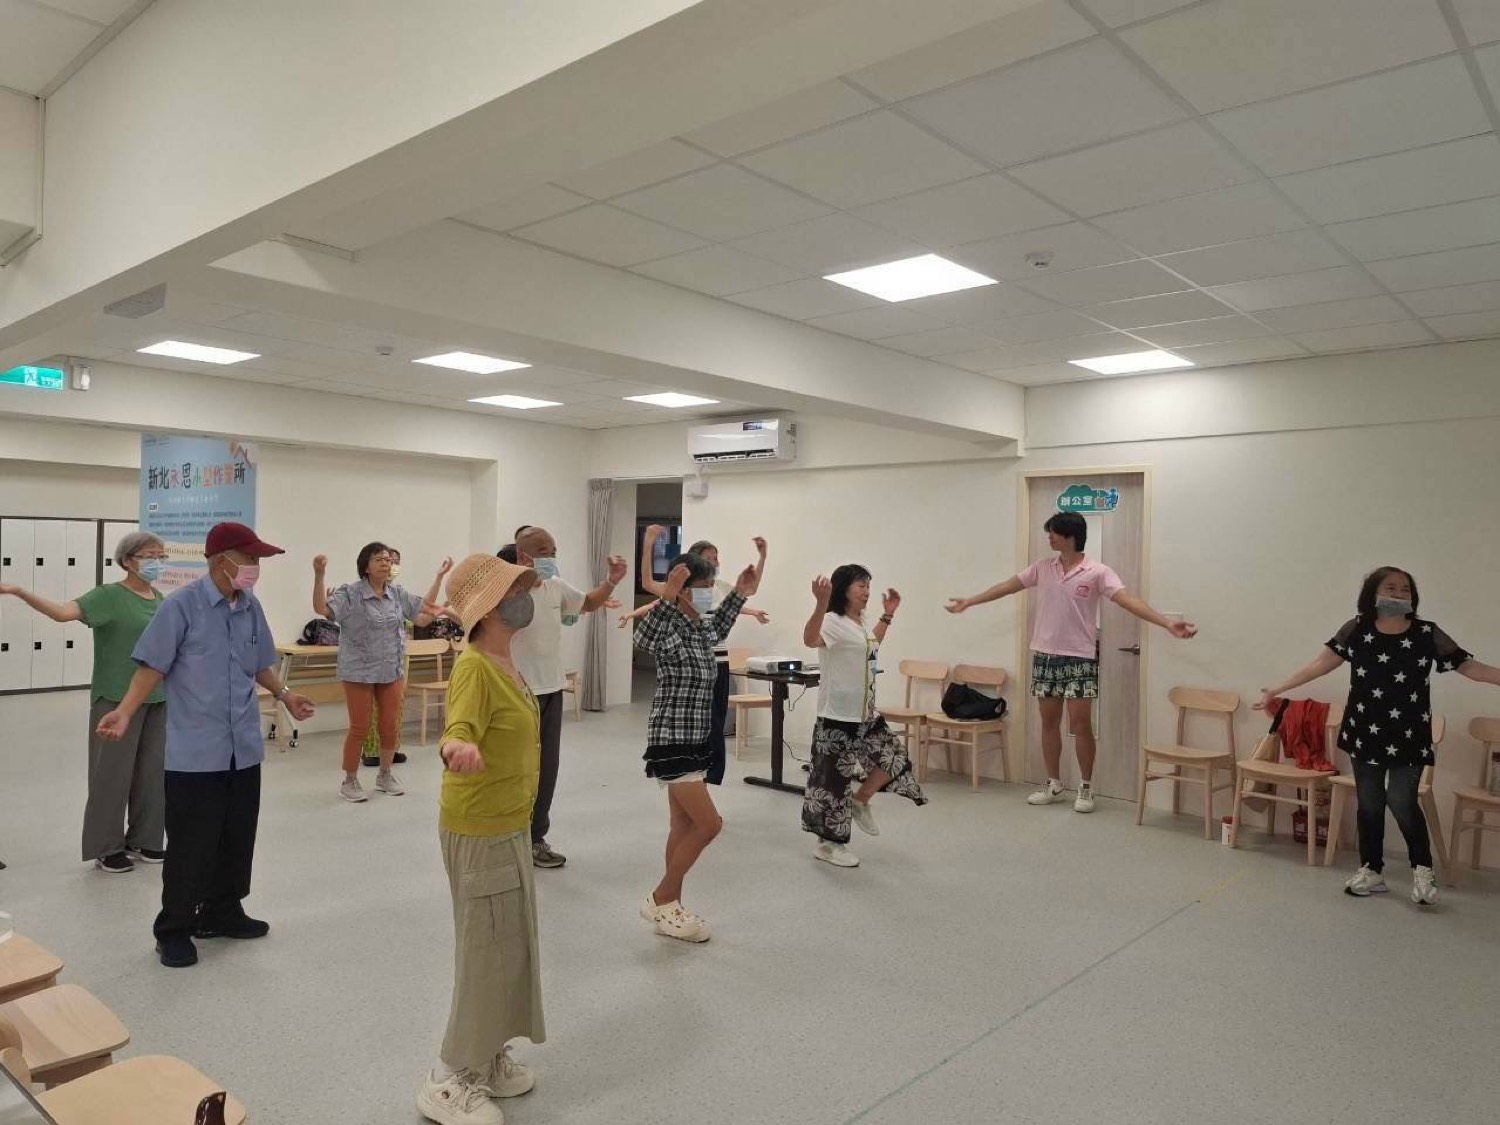
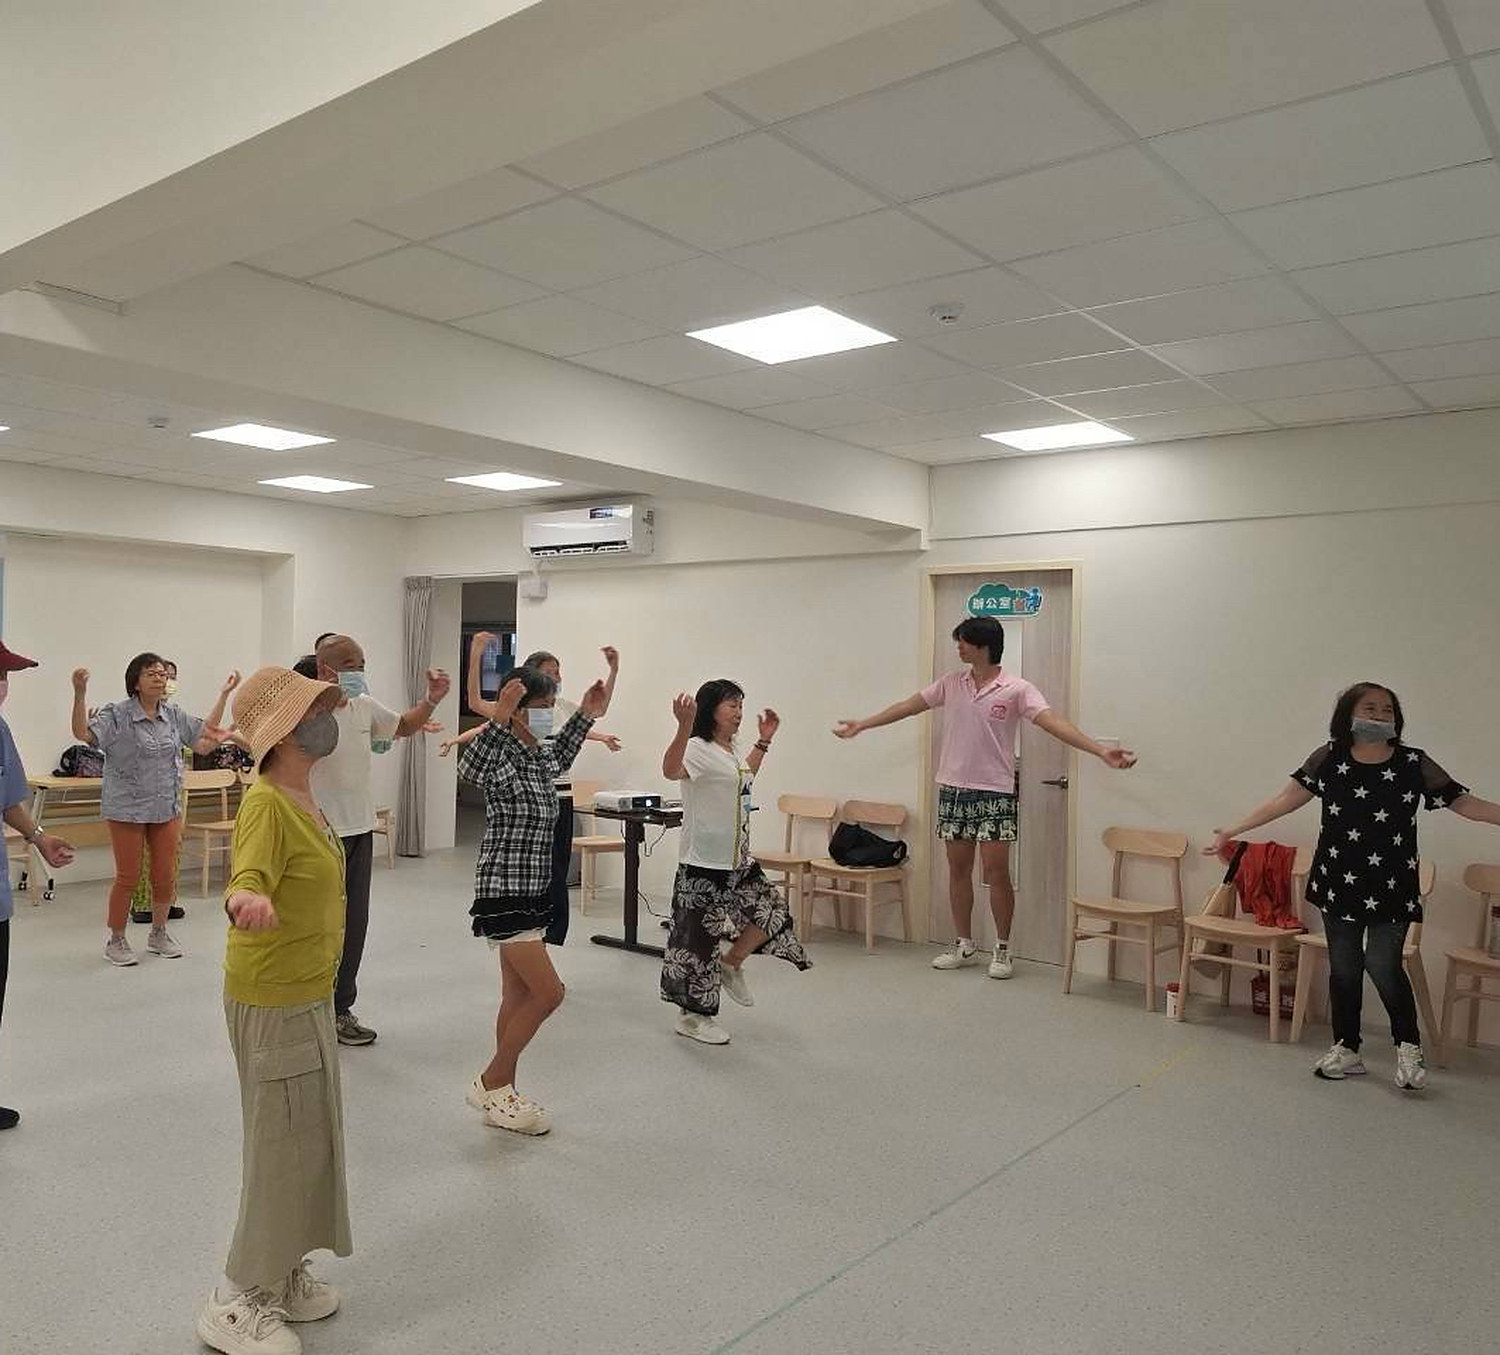
移除其他需求引導詞；換 08.19 照片與頒獎說明；新增履歷連結欄位；地址連到 Google Maps

diff --git a/course.html b/course.html
@@ -26,7 +26,7 @@
 <link rel="preconnect" href="https://fonts.googleapis.com">
 <link rel="preconnect" href="https://fonts.gstatic.com" crossorigin>
 <link rel="stylesheet" href="https://fonts.googleapis.com/css2?family=Noto+Sans+TC:wght@400;500;700&family=Noto+Serif+TC:wght@500;600;700&display=swap">
-<link rel="stylesheet" href="assets/css/site.css?v=93">
+<link rel="stylesheet" href="assets/css/site.css?v=94">
 <script>document.documentElement.className += " js";</script>
 </head>
 <body>
@@ -236,7 +236,7 @@
       <div class="fact"><dt data-en="Who">招收對象</dt><dd data-en="Ages 16–18, high school or first-year students. Especially suited to sports-team members, gym regulars, and anyone applying to university at home or abroad.">16–18 歲高中生／大一新生。運動社團、健身愛好者，或準備申請國內外大學者尤其適合。</dd></div>
       <div class="fact"><dt data-en="Dates">梯次時間</dt><dd data-en="Cohort 1 — Sat 17 Oct, 8:00–12:00<br>Cohort 2 — Sat 31 Oct, 8:00–12:00<br><span class='fact__fine'>Both are Saturday mornings · pick one · this is the 4-hour classroom day</span>">第一梯 10/17（六）8:00–12:00<br>第二梯 10/31（六）8:00–12:00<br><span class="fact__fine">兩梯都是週六上午，擇一即可 · 這是 4 小時學科的日子</span></dd></div>
       <div class="fact"><dt data-en="Places">每梯名額</dt><dd data-en="15 per cohort">15 位</dd></div>
-      <div class="fact"><dt data-en="Selection">錄取方式</dt><dd data-en="Written applications are reviewed. Successful applicants receive an <strong>acceptance email</strong> — it carries the payment details and the programme's own booking LINE account.<br><span class='fact__fine'>Your place is confirmed once the acceptance email has reached you and the transfer is done.</span>">書面資料甄選，錄取者會收到<strong>錄取通知 email</strong> —— 信裡有繳費方式，以及本計畫<strong>預約專用的 LINE 官方帳號</strong>。<br><span class="fact__fine">收到正式錄取信並完成匯款，才算完成報名。</span></dd></div>
+      <div class="fact"><dt data-en="Selection">錄取方式</dt><dd data-en="Written applications are reviewed. Successful applicants receive an <strong>acceptance email</strong> — it carries the payment details and the programme's own booking LINE account.<br><span class='fact__fine'>Your place is confirmed once the acceptance email has reached you and the transfer is done.</span>">書面資料甄選，錄取者會收到<strong>錄取通知 email</strong> —— 信裡有繳費方式，以及本計畫<strong>預約專用的 LINE 官方帳號</strong>。<br><span class="fact__fine">收到錄取信並完成匯款，才算完成報名。</span></dd></div>
       <div class="fact"><dt data-en="Hours">總時數</dt><dd data-en="4 hours theory + 8 hours placement = 12 hours">學科 4 小時 ＋ 機構實作 8 小時，共 12 小時</dd></div>
       <!-- Classroom and placement are two different things and must stay two
            rows. The 4 hours of 學科 happen at 賦優適能; the 8 hours of 實作 do not
@@ -247,9 +247,9 @@
            The gym's Google listing trails a string of service keywords after
            永秀店 (特殊族群訓練｜機能重建訓練｜銀髮專業訓練｜教練友善空間) — that is
            its SEO description, not its name, so the row stops at the branch. -->
-      <div class="fact"><dt data-en="Classroom">學科地點</dt><dd data-en="Feel Fitness, Yongxiu branch<br><span class='fact__addr'>234, New Taipei City, Yonghe District, Xiulang Village, Lane 181, Section 2, Xiulang Rd, No. 8, 1F</span><br><span class='fact__fine'>4 hours of coursework</span>">賦優適能 Feel Fitness 永秀店<br><span class="fact__addr">234 新北市永和區秀朗里秀朗路二段181巷8號1樓</span><br><span class="fact__fine">4 小時學科課程</span></dd></div>
-      <div class="fact"><dt data-en="Placement">實作場域</dt><dd data-en="Two sites in rotation — not one fixed address<br><span class='fact__addr'>Yongle Ju Senior Apartments (Zhonghe) · New Taipei City, Zhonghe District, Lane 127, Nanshan Rd<br>Yongle Ju Senior Apartments (Yonghe) · New Taipei City, Yonghe District, Lane 57, Fuhe Rd</span><br><span class='fact__fine'>8 hours in a care setting · likely to fall in the winter break, on weekday evenings or at weekends. After the 4-hour classroom day we ask everyone for their availability, then schedule and confirm over LINE.</span>">兩處場域輪替，不是固定一個地點<br><span class="fact__addr">永樂居 獨老公寓（中和）· 新北市中和區南山路127巷<br>永樂居 獨老公寓（永和）· 新北市永和區福和路57巷</span><br><span class="fact__fine">8 小時機構實作 · 時段可能落在寒假、平日傍晚或週末。4 小時學科結束後，我們會先問過大家可以的時間，再排定並用 LINE 通知</span></dd></div>
-      <div class="fact"><dt data-en="Fee">費用</dt><dd data-en="NT$3,900<br><span class='fact__fine'>Please do not transfer anything until the acceptance letter reaches you; it carries the details.</span>">NT$3,900<br><span class="fact__fine">收到正式錄取信之前請先不要匯款，匯款資訊會寫在信裡。</span></dd></div>
+      <div class="fact"><dt data-en="Classroom">學科地點</dt><dd data-en="Feel Fitness, Yongxiu branch<br><span class='fact__addr'><a href='https://www.google.com/maps/search/?api=1&amp;query=234%E6%96%B0%E5%8C%97%E5%B8%82%E6%B0%B8%E5%92%8C%E5%8D%80%E7%A7%80%E6%9C%97%E8%B7%AF%E4%BA%8C%E6%AE%B5181%E5%B7%B78%E8%99%9F1%E6%A8%93' target='_blank' rel='noopener'>234, New Taipei City, Yonghe District, Xiulang Village, Lane 181, Section 2, Xiulang Rd, No. 8, 1F</a></span><br><span class='fact__fine'>4 hours of coursework</span>">賦優適能 Feel Fitness 永秀店<br><span class="fact__addr"><a href="https://www.google.com/maps/search/?api=1&amp;query=234%E6%96%B0%E5%8C%97%E5%B8%82%E6%B0%B8%E5%92%8C%E5%8D%80%E7%A7%80%E6%9C%97%E8%B7%AF%E4%BA%8C%E6%AE%B5181%E5%B7%B78%E8%99%9F1%E6%A8%93" target="_blank" rel="noopener">234 新北市永和區秀朗里秀朗路二段181巷8號1樓</a></span><br><span class="fact__fine">4 小時學科課程</span></dd></div>
+      <div class="fact"><dt data-en="Placement">實作場域</dt><dd data-en="Two sites in rotation — not one fixed address<br><span class='fact__addr'><a href='https://www.google.com/maps/search/?api=1&amp;query=%E6%96%B0%E5%8C%97%E5%B8%82%E4%B8%AD%E5%92%8C%E5%8D%80%E5%8D%97%E5%B1%B1%E8%B7%AF127%E5%B7%B7' target='_blank' rel='noopener'>Yongle Ju Senior Apartments (Zhonghe) · New Taipei City, Zhonghe District, Lane 127, Nanshan Rd</a><br><a href='https://www.google.com/maps/search/?api=1&amp;query=%E6%96%B0%E5%8C%97%E5%B8%82%E6%B0%B8%E5%92%8C%E5%8D%80%E7%A6%8F%E5%92%8C%E8%B7%AF57%E5%B7%B7' target='_blank' rel='noopener'>Yongle Ju Senior Apartments (Yonghe) · New Taipei City, Yonghe District, Lane 57, Fuhe Rd</a></span><br><span class='fact__fine'>8 hours in a care setting · likely to fall in the winter break, on weekday evenings or at weekends. After the 4-hour classroom day we ask everyone for their availability, then schedule and confirm over the programme LINE account.</span>">兩處場域輪替，不是固定一個地點<br><span class="fact__addr"><a href="https://www.google.com/maps/search/?api=1&amp;query=%E6%96%B0%E5%8C%97%E5%B8%82%E4%B8%AD%E5%92%8C%E5%8D%80%E5%8D%97%E5%B1%B1%E8%B7%AF127%E5%B7%B7" target="_blank" rel="noopener">永樂居 獨老公寓（中和）· 新北市中和區南山路127巷</a><br><a href="https://www.google.com/maps/search/?api=1&amp;query=%E6%96%B0%E5%8C%97%E5%B8%82%E6%B0%B8%E5%92%8C%E5%8D%80%E7%A6%8F%E5%92%8C%E8%B7%AF57%E5%B7%B7" target="_blank" rel="noopener">永樂居 獨老公寓（永和）· 新北市永和區福和路57巷</a></span><br><span class="fact__fine">8 小時機構實作 · 時段可能落在寒假、平日傍晚或週末。4 小時學科結束後，我們會先問過大家可以的時間，再排定並用 LINE 官方帳號通知</span></dd></div>
+      <div class="fact"><dt data-en="Fee">費用</dt><dd data-en="NT$3,900<br><span class='fact__fine'>Please do not transfer anything until the acceptance letter reaches you; it carries the details.</span>">NT$3,900<br><span class="fact__fine">收到錄取信之前請先不要匯款，匯款資訊會寫在信裡。</span></dd></div>
       <div class="fact"><dt data-en="Insurance">保險</dt><dd data-en="Venue insurance is included in the fee.">課程費用已含場地保險。</dd></div>
     </dl>
 
@@ -441,6 +441,22 @@
         <p class="hint" id="ha-exp" data-en="None is completely fine — this is not a requirement.">沒有也完全沒關係，這不是錄取條件。</p>
       </div>
 
+      <!-- The director wanted somewhere to attach a 履歷 or 學習歷程 and could not
+           find one. This form posts as application/x-www-form-urlencoded to a
+           Make webhook, so a real file would have to be base64'd into a URL
+           parameter — fragile for a 20MB 學習歷程 PDF sent from a phone, and it
+           would fail silently. A link is what actually survives: 學習歷程 already
+           lives in a school system or a Drive, the reviewer can open it without
+           downloading anything, and it costs the applicant one paste. -->
+      <div class="field">
+        <label for="a-work"><span data-en="Link to a CV or portfolio">履歷或學習歷程連結</span> <span class="opt" data-en="optional">選填</span></label>
+        <input id="a-work" name="portfolio" type="url" autocomplete="off"
+               placeholder="https://drive.google.com/..." data-en-ph="https://drive.google.com/..."
+               aria-describedby="ea-work ha-work">
+        <p class="hint" id="ha-work" data-en="Google Drive, Notion, a personal site — anything we can open. Please set sharing so that anyone with the link can view it. Nothing to attach? Skip it, or reply to the acceptance email with the file.">Google 雲端硬碟、Notion、個人網站都可以。記得把權限設成「知道連結的人都可以看」。沒有也沒關係，或等收到錄取信後直接回信附檔。</p>
+        <p class="err" id="ea-work" role="alert"></p>
+      </div>
+
       <input type="text" name="_gotcha" id="a-trap" tabindex="-1" autocomplete="off" aria-hidden="true">
 
       <button class="btn btn--solid btn--big" type="submit" id="applySubmit">
@@ -519,6 +535,6 @@
   </div>
 </footer>
 
-<script src="assets/js/site.js?v=93" defer></script>
+<script src="assets/js/site.js?v=94" defer></script>
 </body>
 </html>

diff --git a/index.html b/index.html
@@ -29,7 +29,7 @@
 <link rel="preconnect" href="https://fonts.gstatic.com" crossorigin>
 <link rel="stylesheet" href="https://fonts.googleapis.com/css2?family=Noto+Sans+TC:wght@400;500;700&family=Noto+Serif+TC:wght@500;600;700&display=swap">
 <!-- bump ?v= whenever you edit the css/js so browsers don't serve a stale copy -->
-<link rel="stylesheet" href="assets/css/site.css?v=93">
+<link rel="stylesheet" href="assets/css/site.css?v=94">
 <script>document.documentElement.className += " js";</script>
 </head>
 <body>
@@ -336,7 +336,7 @@
       </li>
       <li class="shot" data-reveal>
         <button type="button">
-          <span class="shot__img"><img src="assets/img/timeline/2026-08-19-class-md.jpg?v=6" alt="據點活動室裡，一群長輩跟著帶運動的青年一起伸展手臂" data-en-alt="A room full of elders stretching their arms alongside the young coach at the care station" width="1000" height="750" loading="lazy" decoding="async"></span>
+          <span class="shot__img"><img src="assets/img/timeline/2026-08-19-class-md.jpg?v=7" alt="據點活動室裡，一群長輩跟著帶運動的青年一起伸展手臂" data-en-alt="A room full of elders stretching their arms alongside the young coach at the care station" width="1000" height="903" loading="lazy" decoding="async"></span>
           <span class="shot__meta"><em>2026.08.19</em><b data-en="A full room">健運動上課 · 整間一起動起來</b></span>
         </button>
       </li>
@@ -397,7 +397,7 @@
       <li class="shot" data-reveal style="--d:60ms">
         <button type="button" data-i="7">
           <span class="shot__img"><img src="assets/img/timeline/2026-01-17-awards-md.jpg?v=7" alt="圍爐頒獎典禮上，志工團隊在台上接受表揚" data-en-alt="Volunteers receiving recognition on stage at the reunion-dinner awards" width="1000" height="666" loading="lazy" decoding="async"></span>
-          <span class="shot__meta"><em>2026.01.17</em><b data-en="Reunion dinner awards">圍爐頒獎 · 一年的努力被看見</b></span>
+          <span class="shot__meta"><em>2026.01.17</em><b data-en="Presented by the Yonghe District Chief">圍爐頒獎 · 永和區長周慶珍頒發</b></span>
         </button>
       </li>
       <li class="shot" data-reveal style="--d:120ms">
@@ -692,10 +692,7 @@
 
       <div class="field">
         <label for="f-note"><span data-en="Anything else">其他需求</span> <span class="opt" data-en="optional">選填</span></label>
-        <textarea id="f-note" name="note" rows="4"
-                  placeholder="例：場地有椅子沒有器材；多數長輩坐輪椅；需要核銷用的報表" data-en-ph="e.g. chairs but no equipment; most elders use wheelchairs; we need reports for reimbursement"
-                  aria-describedby="h-note"></textarea>
-        <p class="hint" id="h-note" data-en="Venue, funding source, reporting needs — anything.">場地條件、經費來源、報表需求都可以寫在這裡。</p>
+        <textarea id="f-note" name="note" rows="4"></textarea>
       </div>
 
       <input type="text" name="_gotcha" id="f-trap" tabindex="-1" autocomplete="off" aria-hidden="true">
@@ -819,6 +816,6 @@
   </button>
 </div>
 
-<script src="assets/js/site.js?v=93" defer></script>
+<script src="assets/js/site.js?v=94" defer></script>
 </body>
 </html>

diff --git a/assets/js/site.js b/assets/js/site.js
@@ -958,7 +958,7 @@
     var name_ = $('#a-name'), age = $('#a-age'), school = $('#a-school'),
         sMail = $('#a-contact'), parent_ = $('#a-parent'),
         pMail = $('#a-pmail'), phone = $('#a-phone'),
-        why = $('#a-why'), exp = $('#a-exp'), trap = $('#a-trap'),
+        why = $('#a-why'), exp = $('#a-exp'), work = $('#a-work'), trap = $('#a-trap'),
         submit = $('#applySubmit'), done = $('#applyDone'),
         recap = $('#applyRecap'), again = $('#applyAgain');
 
@@ -983,6 +983,8 @@
         ok: function (v) { return v.trim() === '' || MAIL(v); } },
       { el: pMail,  err: '#ea-pmail',  msg: '這個 Email 看起來不太對，再確認一下。', en: 'That email does not look right — worth a second look.',
         ok: function (v) { return v.trim() === '' || MAIL(v); } },
+      { el: work,   err: '#ea-work',   msg: '這個連結看起來不太對，要以 http:// 或 https:// 開頭。', en: 'That link does not look right — it should start with http:// or https://.',
+        ok: function (v) { return v.trim() === '' || /^https?:\/\/\S+$/i.test(v.trim()); } },
       { el: phone,  err: '#ea-phone',  msg: '請填寫家長／監護人聯絡電話。', en: 'Please enter a parent or guardian phone number.',
         ok: function (v) { return v.replace(/[^0-9]/g, '').length >= 8; } },
       /* The hint suggests 100–300 字; this floor is deliberately far below it.
@@ -1048,11 +1050,12 @@
 
       var L = isEN()
         ? ['Student name','Age','School and year','Student email',
-           'Parent name','Parent email','Parent phone','Why they want to join','Sport / volunteering experience']
+           'Parent name','Parent email','Parent phone','Why they want to join','Sport / volunteering experience','CV / portfolio link']
         : ['學生姓名','年齡','學校年級','學生 Email',
-           '家長姓名','家長 Email','家長電話','為什麼想參加','運動或志工經驗'];
+           '家長姓名','家長 Email','家長電話','為什麼想參加','運動或志工經驗','履歷／學習歷程連結'];
       var V = [name_.value.trim(), age.value.trim(), school.value.trim(), sMail.value.trim(),
-               parent_.value.trim(), pMail.value.trim(), phone.value.trim(), why.value.trim(), exp.value.trim()];
+               parent_.value.trim(), pMail.value.trim(), phone.value.trim(), why.value.trim(), exp.value.trim(),
+               work.value.trim()];
       var fields = {};
       L.forEach(function (k, i) { fields[k] = V[i]; });
       var summary = Object.keys(fields).map(function (k) {
@@ -1070,6 +1073,7 @@
         parent_phone: phone.value.trim(),
         why: why.value.trim(),
         experience: exp.value.trim(),
+        portfolio: work.value.trim(),
         summary: summary,
         submitted_at: new Date().toISOString(),
         source: location.href

diff --git a/assets/css/site.css b/assets/css/site.css
@@ -1654,6 +1654,15 @@ svg{fill:none;stroke:currentColor;stroke-width:1.6;stroke-linecap:round;stroke-l
    one line a reader copies into a map, so it may need to be tuned (wrapping,
    selection) without dragging the hours line along with it. */
 .fact__addr{color:var(--ink-faint);font-size:.8125rem;line-height:1.7}
+/* Addresses open in Maps. Underlined rather than coloured: the row is already
+   the quietest thing in the block and a link colour here would out-shout the
+   venue name above it. */
+.fact__addr a{
+  color:inherit;text-decoration:underline;text-underline-offset:3px;
+  text-decoration-thickness:1px;text-decoration-color:var(--rule-2);
+  transition:text-decoration-color .3s var(--ease),color .3s var(--ease);
+}
+@media (hover:hover){ .fact__addr a:hover{color:var(--ink);text-decoration-color:currentColor} }
 @media (min-width:810px){
   .fact{grid-template-columns:180px 1fr;gap:var(--s5);align-items:baseline}
   .fact dt{padding-top:.2em}
